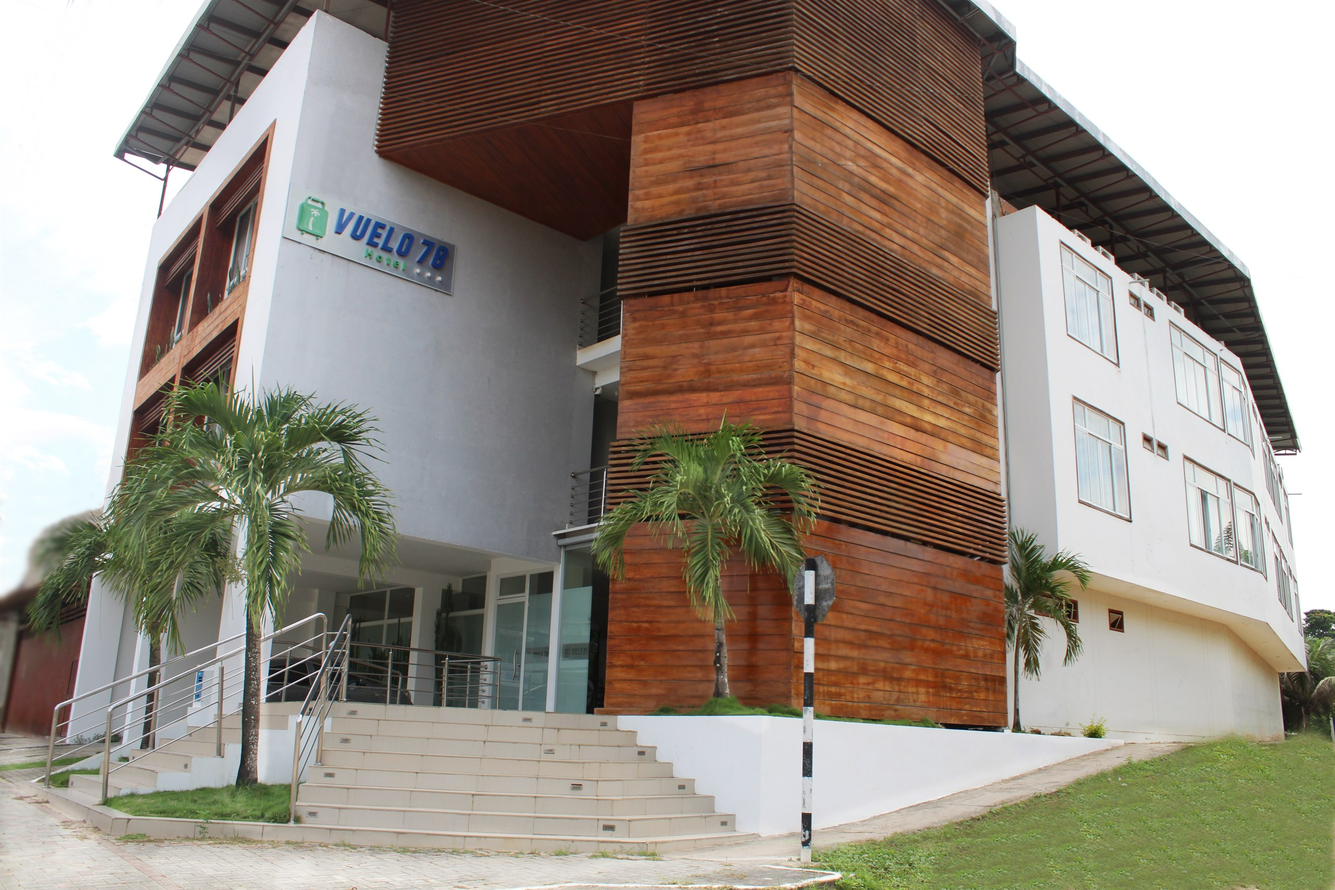
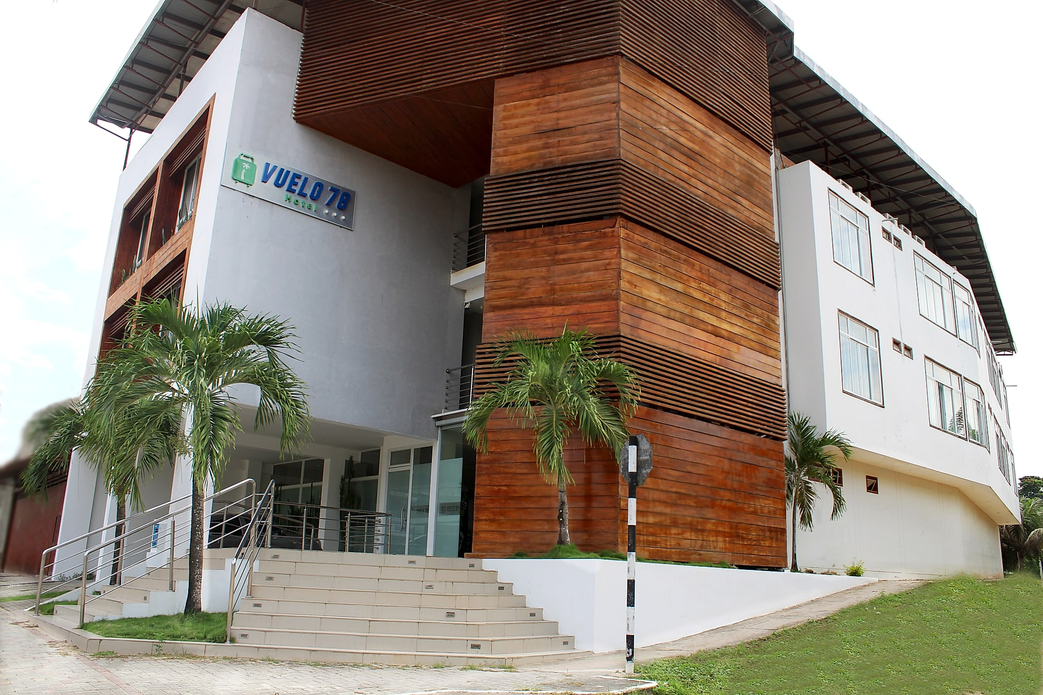
refine: upgrade hero media delivery

diff --git a/src/app/globals.css b/src/app/globals.css
@@ -9210,12 +9210,29 @@ button {
   inset: 0;
   opacity: 0;
   transition: opacity 0.8s ease;
-  background-size: cover;
-  background-repeat: no-repeat;
+  overflow: hidden;
 }
 
 .hotel-reference-hero-slide.is-active {
   opacity: 1;
+}
+
+.hotel-reference-hero-slide-picture,
+.hotel-reference-hero-slide-media {
+  display: block;
+  width: 100%;
+  height: 100%;
+}
+
+.hotel-reference-hero-slide-picture {
+  position: absolute;
+  inset: 0;
+}
+
+.hotel-reference-hero-slide-media {
+  object-fit: cover;
+  object-position: var(--hero-image-position, 50% 50%);
+  filter: saturate(1.06) contrast(1.05) brightness(1.03);
 }
 
 .hotel-reference-hero::after {
@@ -14374,8 +14391,8 @@ button {
 
 .page-shell.mode-reference-clone-hotel .hotel-deluxe-hero-overlay {
   background:
-    linear-gradient(180deg, rgba(7, 8, 9, 0.82) 0%, rgba(7, 8, 9, 0.18) 18%, rgba(7, 8, 9, 0.26) 48%, rgba(7, 8, 9, 0.84) 100%),
-    linear-gradient(90deg, rgba(7, 8, 9, 0.48) 0%, transparent 26%, transparent 72%, rgba(7, 8, 9, 0.38) 100%);
+    linear-gradient(180deg, rgba(7, 8, 9, 0.72) 0%, rgba(7, 8, 9, 0.14) 18%, rgba(7, 8, 9, 0.2) 48%, rgba(7, 8, 9, 0.78) 100%),
+    linear-gradient(90deg, rgba(7, 8, 9, 0.38) 0%, transparent 26%, transparent 72%, rgba(7, 8, 9, 0.28) 100%);
 }
 
 .page-shell.mode-reference-clone-hotel .hotel-deluxe-hero-atmo {
@@ -15287,8 +15304,8 @@ body {
 
 .page-shell.mode-reference-clone-hotel .hotel-home-hero-overlay {
   background:
-    linear-gradient(180deg, rgba(5, 8, 13, 0.82) 0%, rgba(5, 8, 13, 0.28) 22%, rgba(7, 10, 14, 0.34) 54%, rgba(5, 8, 13, 0.88) 100%),
-    linear-gradient(90deg, rgba(6, 10, 15, 0.74) 0%, rgba(6, 10, 15, 0.22) 46%, rgba(6, 10, 15, 0.54) 100%);
+    linear-gradient(180deg, rgba(5, 8, 13, 0.72) 0%, rgba(5, 8, 13, 0.2) 22%, rgba(7, 10, 14, 0.26) 54%, rgba(5, 8, 13, 0.78) 100%),
+    linear-gradient(90deg, rgba(6, 10, 15, 0.62) 0%, rgba(6, 10, 15, 0.16) 46%, rgba(6, 10, 15, 0.42) 100%);
 }
 
 .page-shell.mode-reference-clone-hotel .hotel-home-hero-atmo {
@@ -15759,8 +15776,8 @@ body {
 
 .page-shell.mode-reference-clone-hotel .hotel-deluxe-hero-overlay {
   background:
-    linear-gradient(90deg, rgba(6, 10, 18, 0.84) 0%, rgba(7, 12, 22, 0.62) 38%, rgba(8, 11, 18, 0.24) 66%, rgba(8, 11, 18, 0.56) 100%),
-    linear-gradient(180deg, rgba(6, 10, 16, 0.16) 0%, rgba(6, 10, 16, 0.2) 32%, rgba(6, 10, 16, 0.78) 100%);
+    linear-gradient(90deg, rgba(6, 10, 18, 0.74) 0%, rgba(7, 12, 22, 0.48) 38%, rgba(8, 11, 18, 0.16) 66%, rgba(8, 11, 18, 0.42) 100%),
+    linear-gradient(180deg, rgba(6, 10, 16, 0.12) 0%, rgba(6, 10, 16, 0.16) 32%, rgba(6, 10, 16, 0.68) 100%);
 }
 
 .page-shell.mode-reference-clone-hotel .hotel-deluxe-hero-atmo {

diff --git a/src/components/site/ReferenceCloneHotelEngine.tsx b/src/components/site/ReferenceCloneHotelEngine.tsx
@@ -91,10 +91,18 @@ export function ReferenceCloneHotelEngine({
   const services = getVisibleServices(localizedContent);
   const testimonials = getVisibleTestimonials(localizedContent).slice(0, 3);
   const bookingWidget = resolveBookingWidget(localizedContent, profile);
-  const heroImage = localizedContent.brand.heroImageSrc || galleryItems[0]?.imageSrc || services[0]?.imageSrc || "";
+  const curatedHeroSlides = buildCuratedHeroSlides(localizedContent);
+  const heroImage =
+    curatedHeroSlides[0]?.imageSrc || localizedContent.brand.heroImageSrc || galleryItems[0]?.imageSrc || services[0]?.imageSrc || "";
   const heroImagePosition =
-    localizedContent.brand.heroImagePosition || galleryItems[0]?.imagePosition || services[0]?.imagePosition;
-  const heroSlides = buildHeroSlides(localizedContent, services, galleryItems, heroImage, heroImagePosition);
+    curatedHeroSlides[0]?.imagePosition ||
+    localizedContent.brand.heroImagePosition ||
+    galleryItems[0]?.imagePosition ||
+    services[0]?.imagePosition;
+  const heroSlides =
+    curatedHeroSlides.length > 0
+      ? curatedHeroSlides
+      : buildHeroSlides(localizedContent, services, galleryItems, heroImage, heroImagePosition);
   const contactPhone = normalizeHotelPhone(localizedContent.contact.whatsappNumber || profile.brandConfig.whatsappNumber);
   const cityLabel = getCityLabel(localizedContent.location?.city);
   const displayBrandName = getDisplayBrandName(localizedContent.brand.name);
@@ -364,6 +372,34 @@ function buildHeroSlides(
   ].filter((item) => Boolean(item.imageSrc));
 
   return Array.from(new Map(candidates.map((item) => [item.imageSrc, item])).values()).slice(0, 4);
+}
+
+function buildCuratedHeroSlides(content: SiteContent): HotelHeroSlide[] {
+  const fallbackDescription = content.brand.description;
+
+  return [
+    {
+      title: content.brand.name,
+      subtitle: fallbackDescription,
+      imageSrc: "/assets/hero/hero-main.webp",
+      fallbackSrc: "/assets/hero/hero-main.jpg",
+      imagePosition: { x: 56, y: 54 },
+    },
+    {
+      title: "Suite principal",
+      subtitle: "Habitacion amplia y luminosa",
+      imageSrc: "/assets/hero/hero-suite.webp",
+      fallbackSrc: "/assets/hero/hero-suite.jpg",
+      imagePosition: { x: 52, y: 50 },
+    },
+    {
+      title: "Llegada al hotel",
+      subtitle: "Arquitectura y acceso principal",
+      imageSrc: "/assets/hero/hero-arrival.webp",
+      fallbackSrc: "/assets/hero/hero-arrival.jpg",
+      imagePosition: { x: 52, y: 48 },
+    },
+  ];
 }
 
 function getCityLabel(value?: string) {

diff --git a/src/components/site/HotelHeroShowcase.tsx b/src/components/site/HotelHeroShowcase.tsx
@@ -1,12 +1,13 @@
 "use client";
 
-import { useEffect, useEffectEvent, useState } from "react";
+import { useEffect, useEffectEvent, useState, type CSSProperties } from "react";
 import type { ImagePosition } from "@/types/site";
 
 export type HotelHeroSlide = {
   title: string;
   subtitle: string;
   imageSrc: string;
+  fallbackSrc?: string;
   imagePosition?: ImagePosition;
 };
 
@@ -38,8 +39,20 @@ export function HotelHeroShowcase({ slides }: HotelHeroShowcaseProps) {
           <div
             className={`hotel-reference-hero-slide${index === activeIndex ? " is-active" : ""}`}
             key={`${slide.imageSrc}-${index}`}
-            style={getSlideStyle(slide.imageSrc, slide.imagePosition)}
-          />
+            style={getSlideStyle(slide.imagePosition)}
+          >
+            <picture className="hotel-reference-hero-slide-picture">
+              {slide.imageSrc.toLowerCase().endsWith(".webp") ? <source srcSet={slide.imageSrc} type="image/webp" /> : null}
+              <img
+                alt=""
+                className="hotel-reference-hero-slide-media"
+                decoding="async"
+                fetchPriority={index === 0 ? "high" : "auto"}
+                loading={index === 0 ? "eager" : "lazy"}
+                src={slide.fallbackSrc || slide.imageSrc}
+              />
+            </picture>
+          </div>
         ))}
       </div>
 
@@ -60,12 +73,11 @@ export function HotelHeroShowcase({ slides }: HotelHeroShowcaseProps) {
   );
 }
 
-function getSlideStyle(imageSrc: string, position?: ImagePosition) {
+function getSlideStyle(position?: ImagePosition) {
   const x = typeof position?.x === "number" ? position.x : 50;
   const y = typeof position?.y === "number" ? position.y : 50;
 
   return {
-    backgroundImage: `url("${imageSrc}")`,
-    backgroundPosition: `${x}% ${y}%`,
-  };
+    ["--hero-image-position" as const]: `${x}% ${y}%`,
+  } as CSSProperties;
 }
